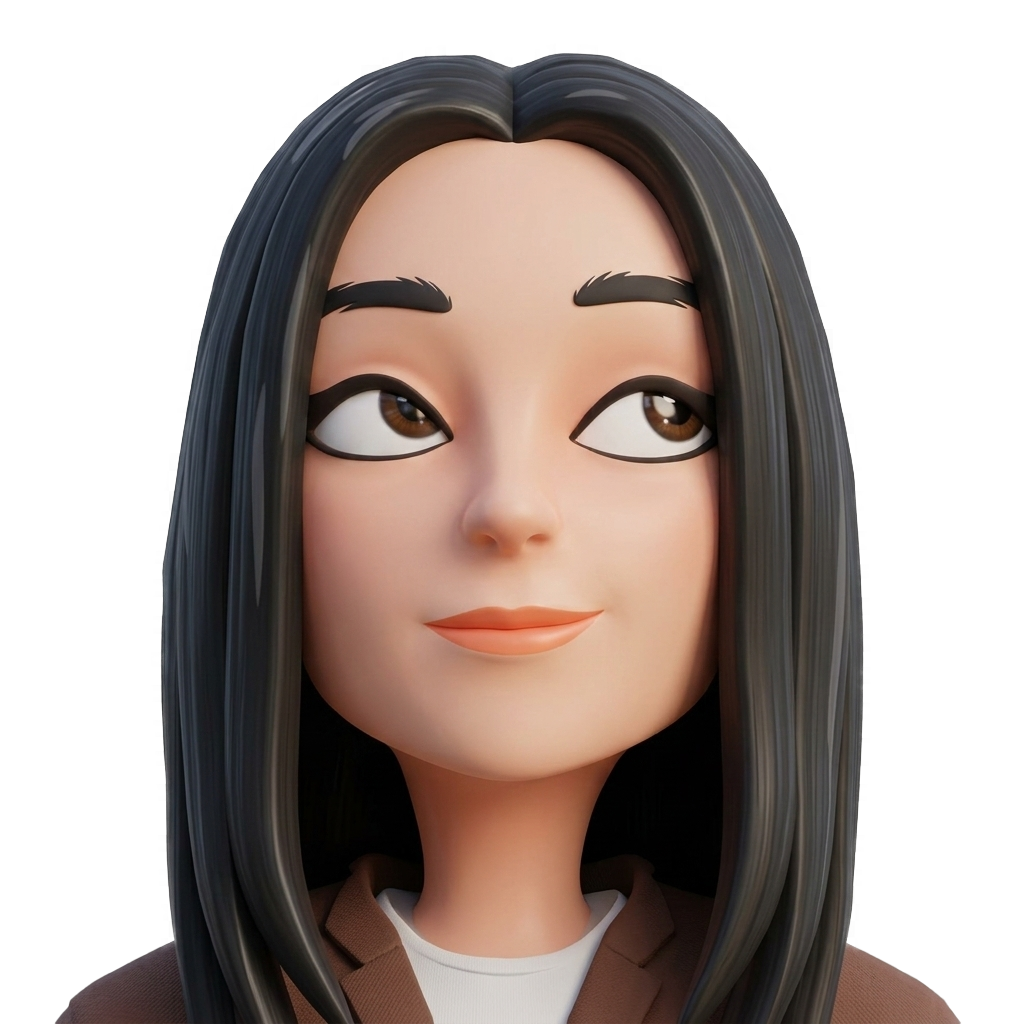
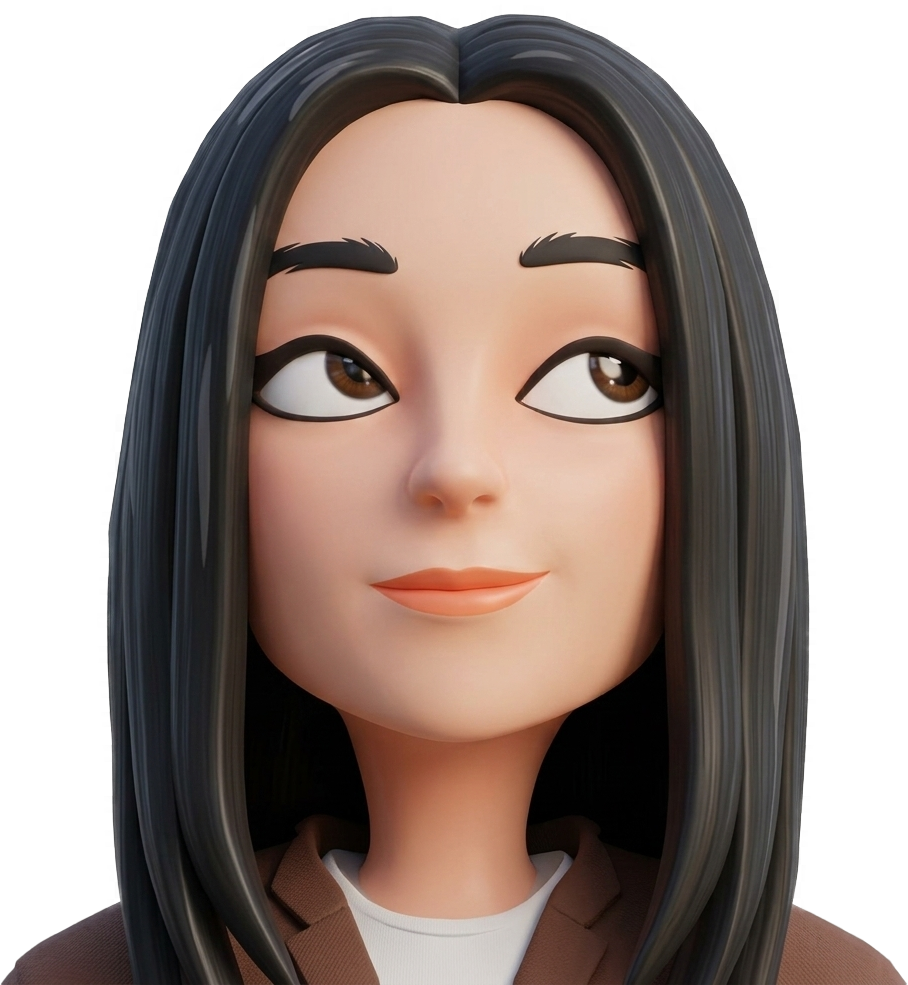
make about me border contain the full row

diff --git a/src/pages/Home.tsx b/src/pages/Home.tsx
@@ -3,6 +3,7 @@ import { ReactNode, useEffect, useRef, useState } from "react";
 import { Link } from "react-router-dom";
 import AnimatedSection from "../components/AnimatedSection";
 import { ScrollNext } from "../components/ScrollNext";
+import { Download, DownloadDoneSharp } from "@mui/icons-material";
 
 /**
  * Reusable Animation Wrapper
@@ -38,7 +39,7 @@ const Reveal = ({
     if (isVisible) return "translate(0, 0)";
     switch (direction) {
       case "up":
-        return "translateY(80px)";
+        return "translateY(50px)";
       case "left":
         return "translateX(-50px)";
       case "right":
@@ -201,7 +202,7 @@ const Home = () => {
           <Box sx={{ p: 4, textAlign: "center" }}>
             <Typography
               variant="poster"
-              sx={{ marginBottom: "7vh", display: "block" }}
+              sx={{ marginBottom: "7vh", display: "block", letterSpacing: 10 }}
             >
               REHAM ALSABBAGH
             </Typography>
@@ -246,7 +247,7 @@ const Home = () => {
         </AnimatedSection>
 
         <Box display="flex" position="absolute" bottom="3vh">
-          <ScrollNext targetId="about" label="About" delay={1.1} />
+          <ScrollNext targetId="about" label="About" delay={0.7} />
         </Box>
       </Box>
 
@@ -256,37 +257,28 @@ const Home = () => {
         ref={aboutRef}
         sx={{
           ...sectionBaseStyles,
+          minHeight: "100vh",
+          display: "flex",
+          flexDirection: "column", // Stack content and the ScrollNext button
+          alignItems: "center",
+          justifyContent: "center",
         }}
       >
-        <Box sx={{ width: { xs: "100%", md: "35vw" }, textAlign: "center" }}>
-          <img
-            src={`${process.env.PUBLIC_URL}/assets/reham-alsabbagh.png`}
-            alt="Reham avatar"
-            style={{
-              width: "25vw",
-              minWidth: "280px",
-              borderRadius: "500px",
-              opacity: isAboutMeVisible ? 1 : 0,
-              transform: isAboutMeVisible
-                ? "translateY(0)"
-                : "translateY(20px)",
-              transition: "all 1s ease-out",
-            }}
-          />
-        </Box>
-
+        {/* 1. THE CONTENT WRAPPER: This defines the border's size */}
         <Box
           sx={{
-            width: { xs: "100%", md: "35vw" },
-            zIndex: 3,
-            padding: "40px", // Increased padding slightly for the rounded corners
-            position: "relative",
             display: "flex",
-            flexDirection: "column",
+            flexDirection: { xs: "column", md: "row" },
+            alignItems: "center",
             justifyContent: "center",
+            position: "relative",
+            padding: { xs: "40px 20px", md: "4vh 3vh" }, // Internal spacing from the border
+            gap: "2vw",
+            width: "fit-content", // Shrinks the box to hug the avatar + text
+            maxWidth: "90vw",
           }}
         >
-          {/* The Animated Rounded Border SVG */}
+          {/* THE SVG BORDER: Now relative to THIS box */}
           <svg
             style={{
               position: "absolute",
@@ -301,7 +293,7 @@ const Home = () => {
             <rect
               x="0"
               y="0"
-              rx="40" // Your specific radius
+              rx="40"
               ry="40"
               width="100%"
               height="100%"
@@ -312,30 +304,122 @@ const Home = () => {
               strokeDasharray="1"
               strokeDashoffset={isAboutMeVisible ? "0" : "1"}
               style={{
-                transition:
-                  "stroke-dashoffset 1.5s cubic-bezier(0.4, 0, 0.2, 1)",
+                transition: "stroke-dashoffset 2s cubic-bezier(0.4, 0, 0.2, 1)",
               }}
             />
           </svg>
 
-          <Typography variant="h2" sx={{ color: "secondary.main", mb: 3 }}>
-            About Me
-          </Typography>
-          <Typography
-            variant="h6"
-            sx={{ color: "primary.main", lineHeight: 1.6 }}
+          {/* 2. AVATAR BOX: Smaller width */}
+          <Box
+            sx={{
+              width: { xs: "100%", md: "20vw" },
+              textAlign: "center",
+              zIndex: 3,
+            }}
           >
-            Senior Frontend Developer with 9+ years of experience delivering
-            high-quality, accessible web applications for fintech and enterprise
-            clients. Expert in React, modern UI architectures, and translating
-            UX designs into scalable, maintainable code. Experienced in leading
-            frontend projects, building design systems, and collaborating
-            closely with product and UX teams. Holds a Master’s in UX Design.
-          </Typography>
+            <img
+              src={`${process.env.PUBLIC_URL}/assets/reham-alsabbagh.png`}
+              alt="Reham avatar"
+              style={{
+                width: "100%",
+                maxWidth: "280px",
+                borderRadius: "500px",
+                opacity: isAboutMeVisible ? 1 : 0,
+                transform: isAboutMeVisible
+                  ? "translateY(0)"
+                  : "translateY(20px)",
+                transition: "all 1s ease-out",
+              }}
+            />
+          </Box>
+
+          {/* 3. TEXT BOX: Larger width */}
+          <Box
+            sx={{
+              width: { xs: "100%", md: "45vw" },
+              zIndex: 3,
+              display: "flex",
+              flexDirection: "column",
+            }}
+          >
+            <Typography variant="h2" sx={{ color: "secondary.main", mb: 3 }}>
+              About Me
+            </Typography>
+            <Typography
+              variant="h6"
+              sx={{ color: "primary.main", lineHeight: 1.6 }}
+            >
+              Senior Frontend Developer with 9+ years of experience delivering
+              high-quality, accessible web applications for fintech and
+              enterprise clients. Expert in React, modern UI architectures, and
+              translating UX designs into scalable, maintainable code.
+              Experienced in leading frontend projects, building design systems,
+              and collaborating closely with product and UX teams. Holds a
+              Master’s in UX Design.
+            </Typography>
+
+            {/* Skills Grouping */}
+            <Box
+              sx={{ mt: 4, display: "flex", flexDirection: "column", gap: 1 }}
+            >
+              <Reveal delay={0.2}>
+                <Box display="flex" flexWrap="wrap" gap={1}>
+                  {[
+                    "React",
+                    "TypeScript",
+                    "JavaScript",
+                    "Component-driven",
+                    "HTML5",
+                    "CSS3",
+                    "Tailwind",
+                    "Sass",
+                  ].map((s) => (
+                    <NavChip key={s} label={s} />
+                  ))}
+                </Box>
+              </Reveal>
+              <Reveal delay={0.2}>
+                <Box display="flex" flexWrap="wrap" gap={1}>
+                  {[
+                    "Redux",
+                    "React Query",
+                    "REST",
+                    "GraphQL",
+                    "React Testing Library",
+                  ].map((s) => (
+                    <NavChip key={s} label={s} />
+                  ))}
+                </Box>
+              </Reveal>
+
+              <Reveal delay={0.2}>
+                <Box display={"flex"} flexWrap="wrap" gap={1}>
+                  {["Git", "Unity DevOps", "Webpack", "Agile", "Scrum"].map(
+                    (label) => (
+                      <NavChip key={label} label={label} />
+                    ),
+                  )}
+                </Box>
+              </Reveal>
+              {/* <Reveal delay={0.2}>
+                <Box
+                  display={"flex"}
+                  gap={"7px"}
+                  marginTop={"2vh"}
+                  justifyContent={"flex-end"}
+                  alignItems={"anchor-center"}
+                >
+                  <Typography variant="body1">Download Resume</Typography>
+                  <Download sx={{ fontSize: "1em", verticalAlign: "bottom" }} />
+                </Box>
+              </Reveal> */}
+            </Box>
+          </Box>
         </Box>
 
+        {/* 4. SCROLL BUTTON: Outside the border box */}
         <Box display="flex" position="absolute" bottom="3vh">
-          <ScrollNext targetId="projects" label="Projects" delay={1.3} />
+          <ScrollNext targetId="projects" label="Projects" delay={2.2} />
         </Box>
       </Box>
 

diff --git a/src/theme.ts b/src/theme.ts
@@ -25,8 +25,8 @@ export const theme = createTheme({
   typography: {
     fontFamily: "Instrument Sans, system-ui, sans-serif",
     poster: {
-      fontSize: "6rem",
-      fontWeight: 700,
+      fontSize: "5.5rem",
+      fontWeight: 500,
       lineHeight: 1.2,
       display: "block",
     },

diff --git a/src/components/ScrollNext.tsx b/src/components/ScrollNext.tsx
@@ -101,7 +101,7 @@ export const ScrollNext = ({
       </Typography>
       <KeyboardArrowDownIcon
         color="secondary"
-        sx={{ animation: `${bounce} 4s 3` }}
+        sx={{ animation: `${bounce} 4s 1` }}
       />
     </Box>
   );
